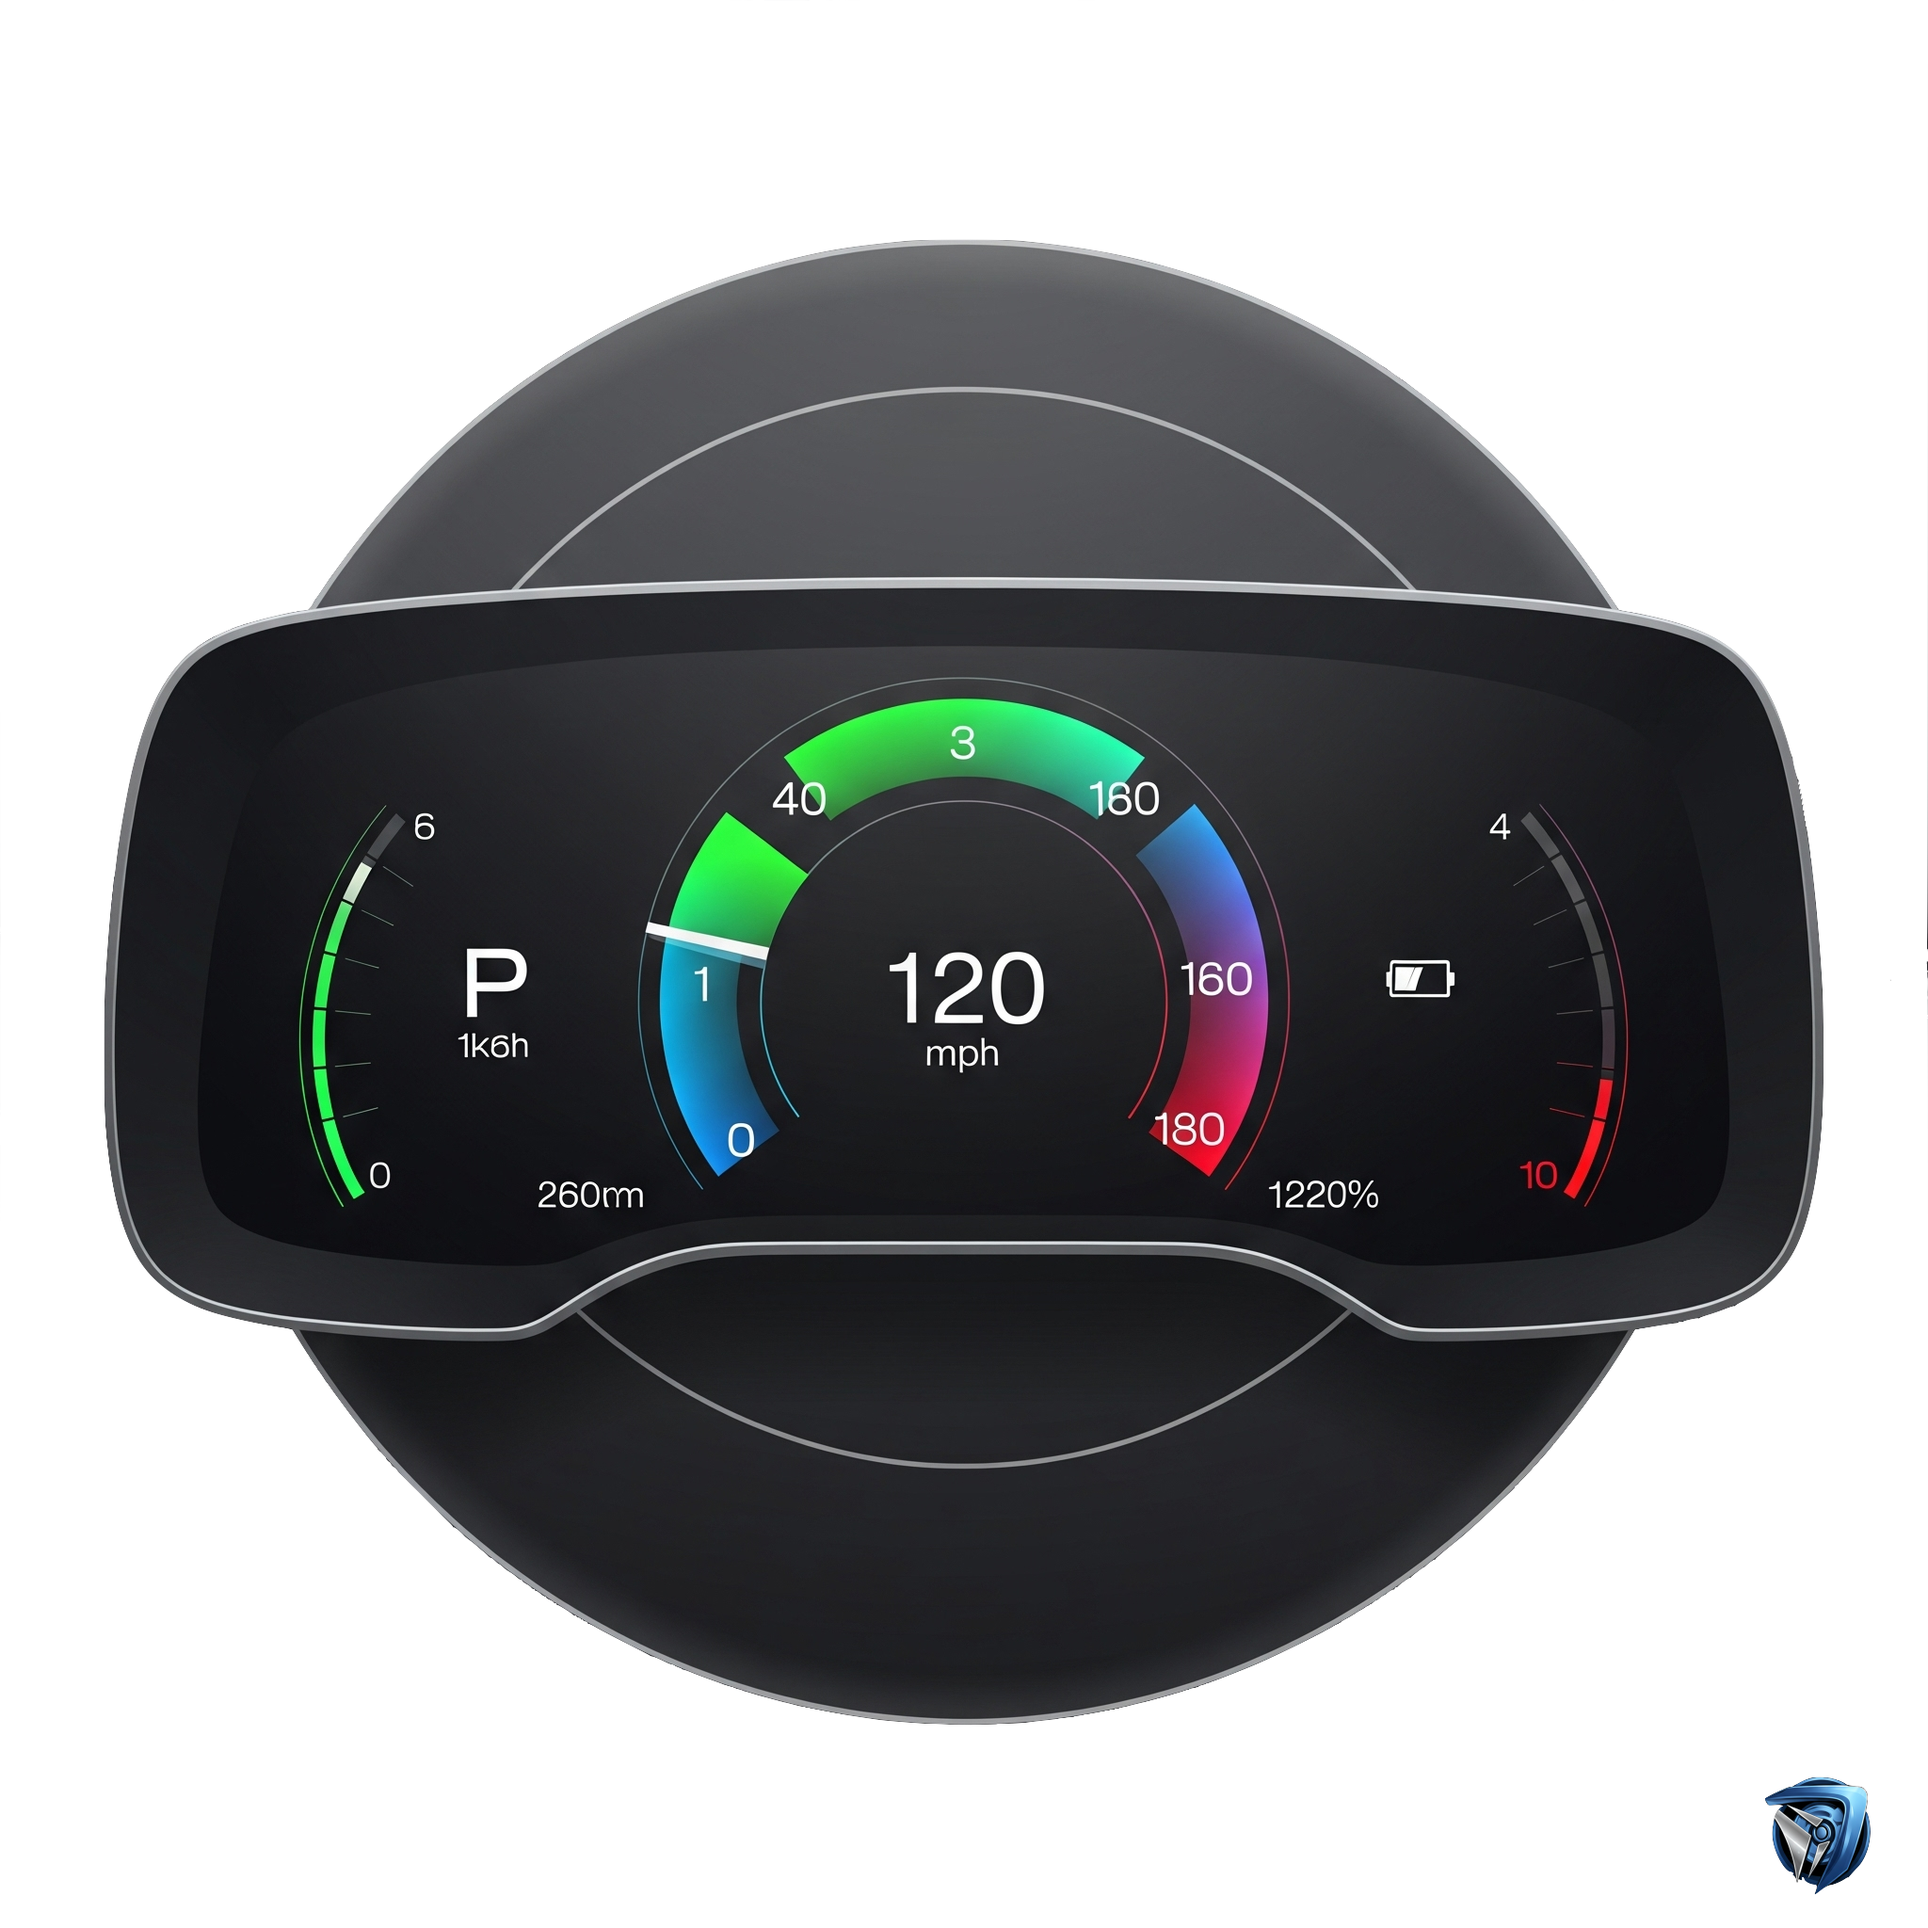
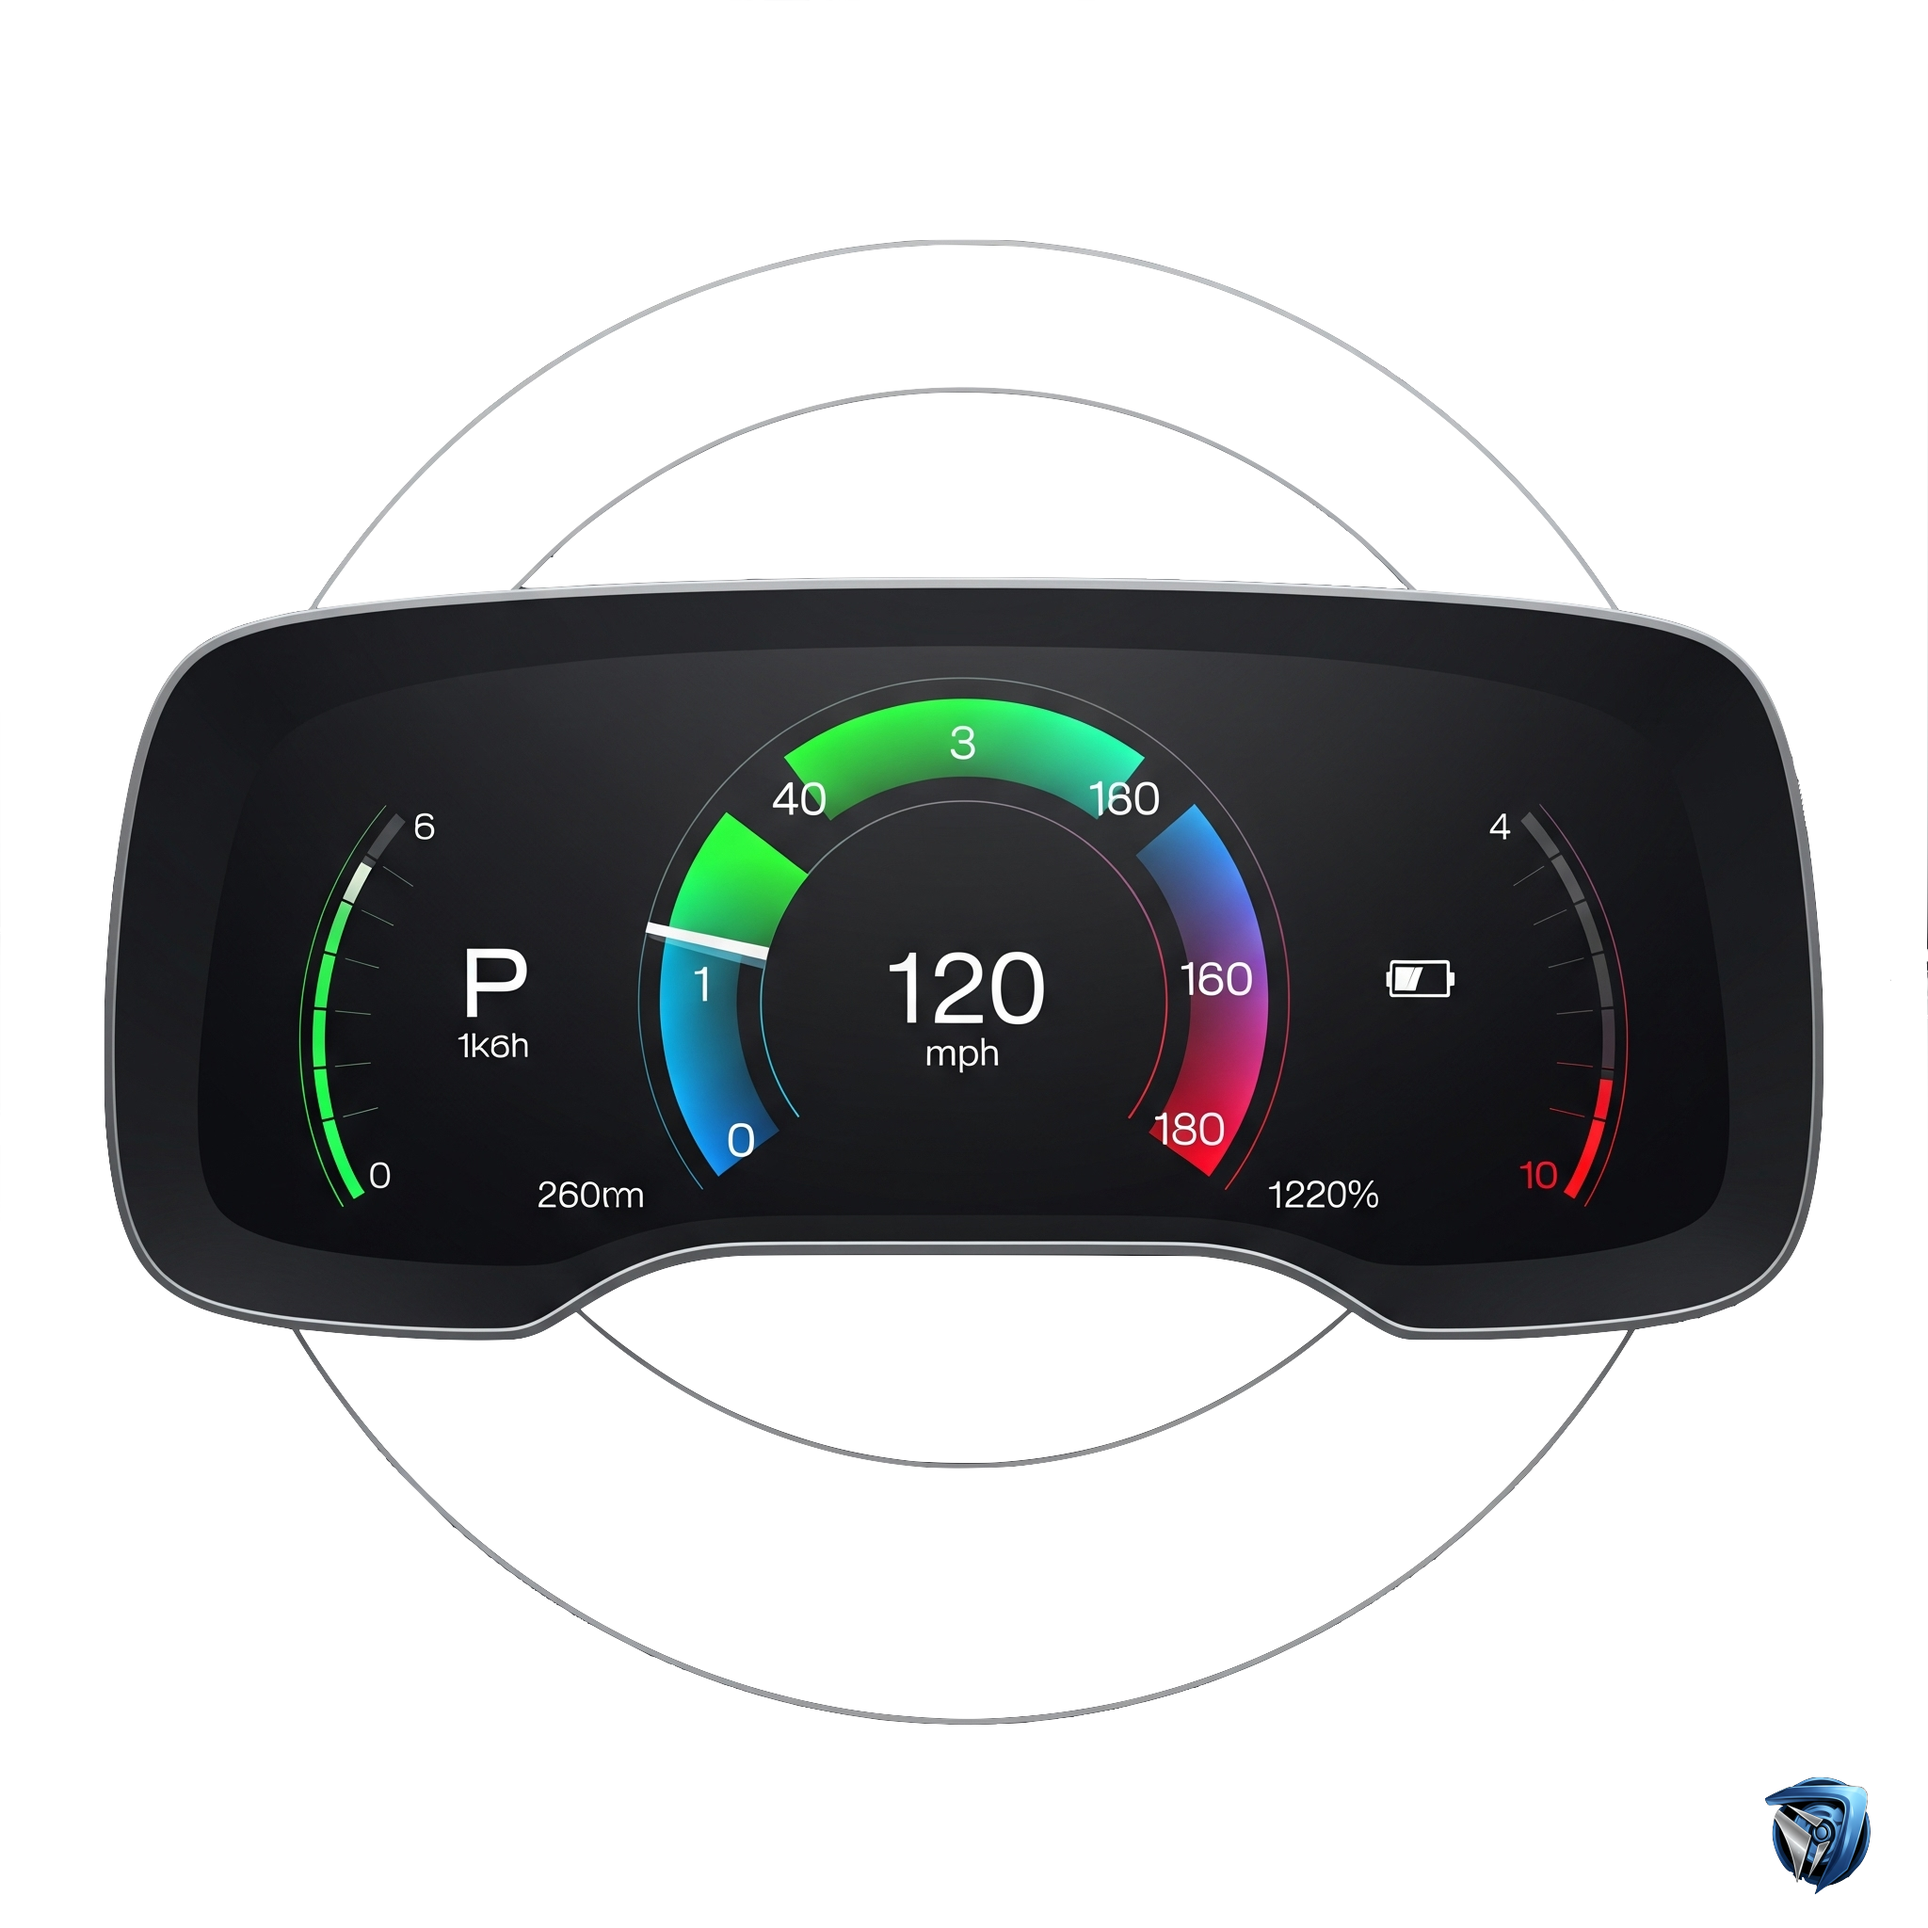
Update asset imports and replace images in CardDeal and WhatWeDo components

Changed region(s): [[0.1562, 0.625, 0.8438, 0.9062], [0.1562, 0.125, 0.8438, 0.3125]]

diff --git a/src/assets/index.js b/src/assets/index.js
@@ -1,4 +1,3 @@
-import airbnb from "./airbnb.png";
 import arrowUp from "./arrow-up.svg";
 import binance from "./binance.png";
 import close from "./close.svg";
@@ -19,20 +18,19 @@ import quotes from "./quotes.svg";
 import radar from "./radar-datam.png";
 import send from "./Send.svg";
 import shield from "./Shield.svg";
+import sponsor from "./sponsor-placeholder.png";
 import star from "./Star.svg";
 import twitter from "./twitter.svg";
 import people03 from "./user03.jpeg";
 import people04 from "./user04.jpg";
 
 export {
-  airbnb,
   arrowUp,
-  display as bill,
   binance,
-  radar as card,
   close,
   coinbase,
   discount,
+  display,
   dropbox,
   facebook,
   google,
@@ -45,9 +43,11 @@ export {
   people03,
   people04,
   quotes,
+  radar,
   robot,
   send,
   shield,
+  sponsor,
   star,
   twitter,
 };

diff --git a/src/components/CardDeal.jsx b/src/components/CardDeal.jsx
@@ -1,4 +1,4 @@
-import { card } from "../assets";
+import { radar } from "../assets";
 import styles, { layout } from "../style";
 import Button from "./Button";
 
@@ -18,7 +18,7 @@ const CardDeal = () => (
     </div>
 
     <div className={layout.sectionImg}>
-      <img src={card} alt="WhatWeDo" className="w-[100%] h-[100%]" />
+      <img src={radar} alt="WhatWeDo" className="w-[100%] h-[100%]" />
     </div>
   </section>
 );

diff --git a/src/components/WhatWeDo.jsx b/src/components/WhatWeDo.jsx
@@ -1,11 +1,11 @@
-import { bill } from "../assets";
+import { display } from "../assets";
 import styles, { layout } from "../style";
 
 const WhatWeDo = () => (
   <section id="WhatWeDo" className={layout.sectionReverse}>
     <div className={layout.sectionImgReverse}>
       <img
-        src={bill}
+        src={display}
         alt="WhatWeDo"
         className="w-[100%] h-[100%] relative z-[5]"
       />
